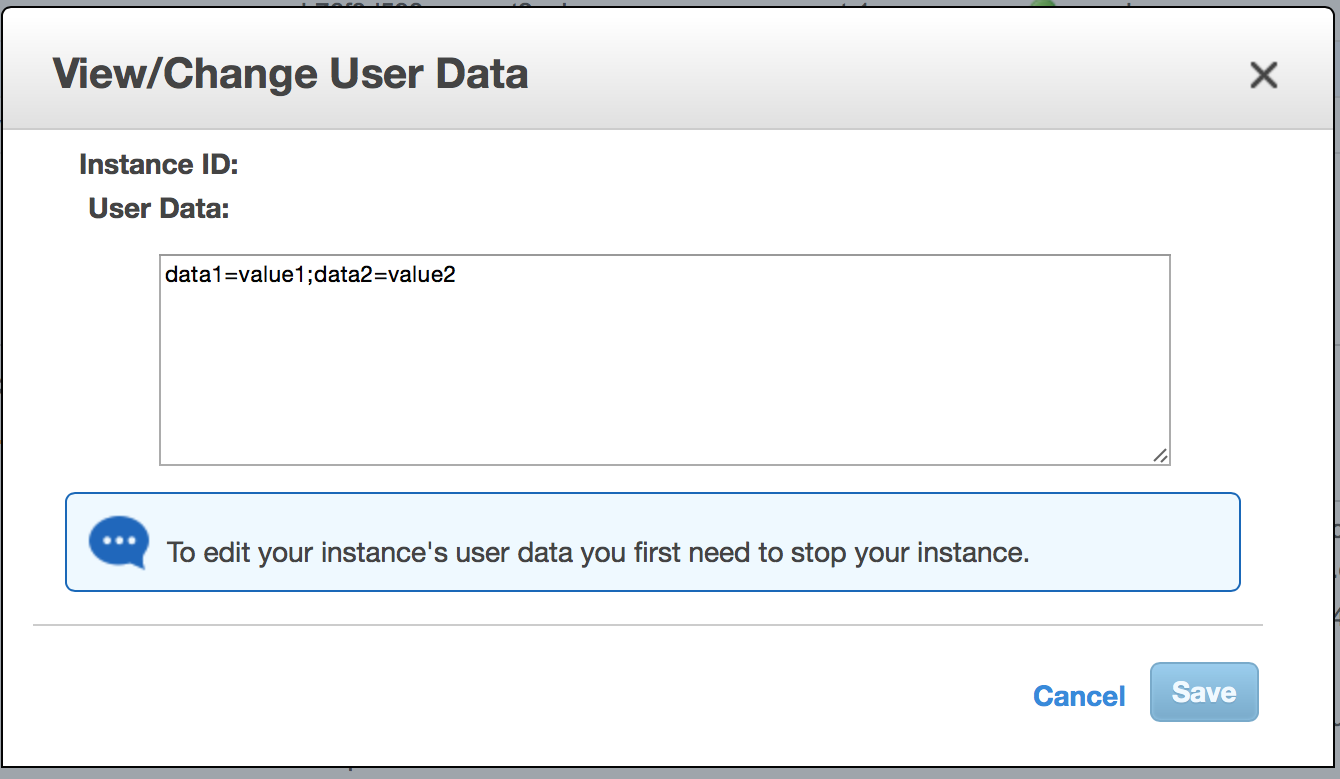
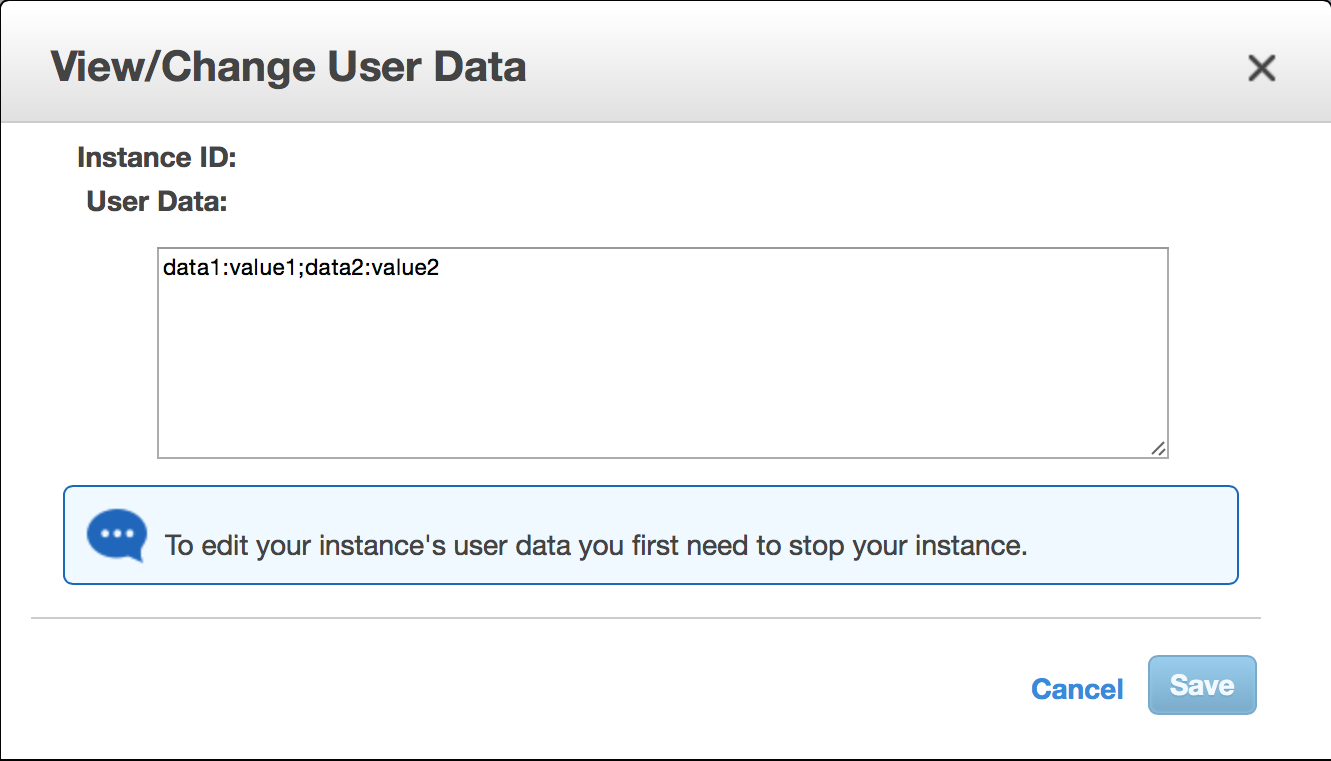
Sync docs from master to gh-pages

diff --git a/spring-cloud-aws.html b/spring-cloud-aws.html
@@ -1178,7 +1178,7 @@ expects the format <code>&lt;key&gt;:&lt;value&gt;;&lt;key&gt;:&lt;value&gt;</co
      "Properties": {
       "ImageId": "ami-6a56b81d",
       "UserData": {
-         "Fn::Base64": "data1=value1;data2=value2"
+         "Fn::Base64": "data1:value1;data2:value2"
        },
       "InstanceType": "t1.micro",
      }
@@ -1202,20 +1202,6 @@ public class SecondConfigurationBean {
 	private String secondDataOption;
 }</code></pre>
 </div>
-</div>
-<div class="admonitionblock note">
-<table>
-<tr>
-<td class="icon">
-<i class="fa icon-note" title="Note"></i>
-</td>
-<td class="content">
-<div class="paragraph">
-<p>User data stored in a base 64 encoded representation is automatically decoded by Spring Cloud AWS</p>
-</div>
-</td>
-</tr>
-</table>
 </div>
 </div>
 <div class="sect3">
@@ -3316,7 +3302,7 @@ like <em>integrationteststack-sampleBucket-23qysofs62tc2</em></p>
 </div>
 <div id="footer">
 <div id="footer-text">
-Last updated 2015-02-12 21:19:24 UTC
+Last updated 2015-02-12 21:49:42 UTC
 </div>
 </div>
 </body>
